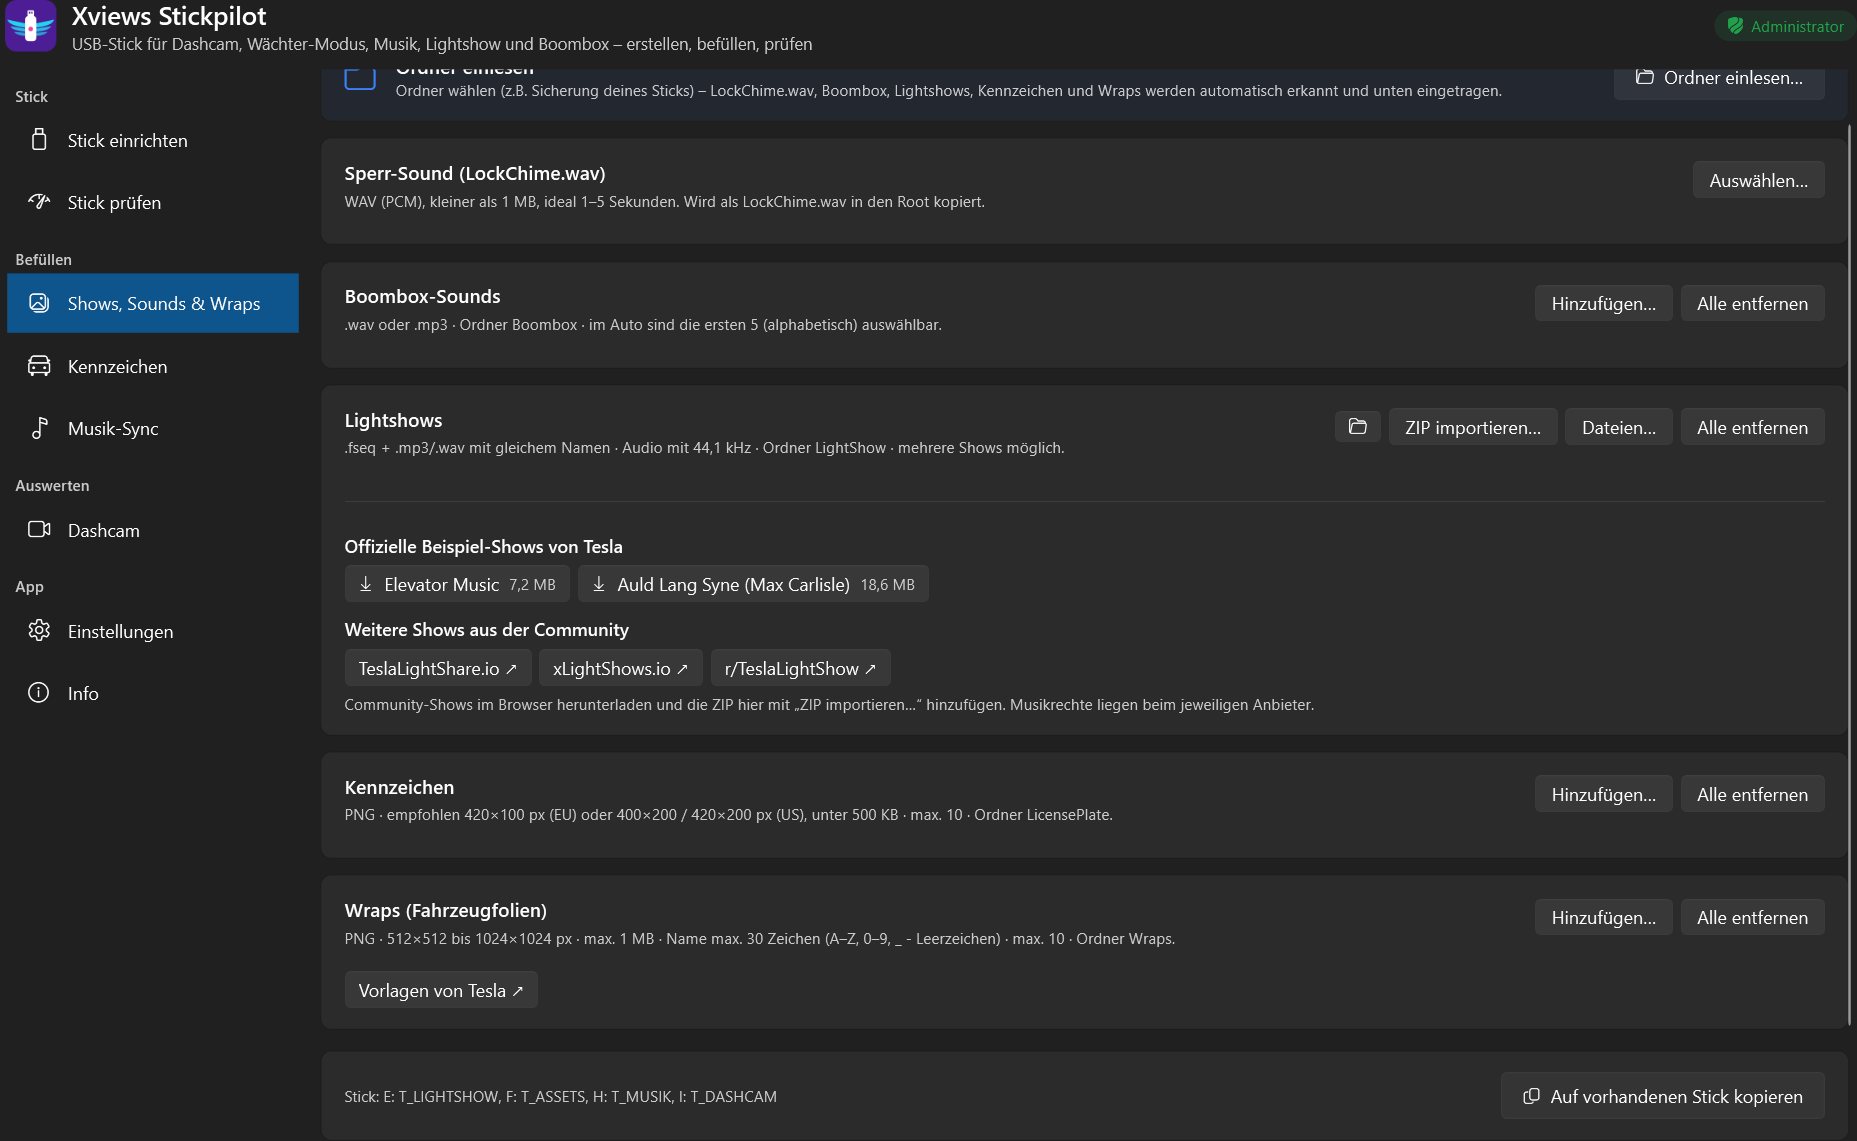
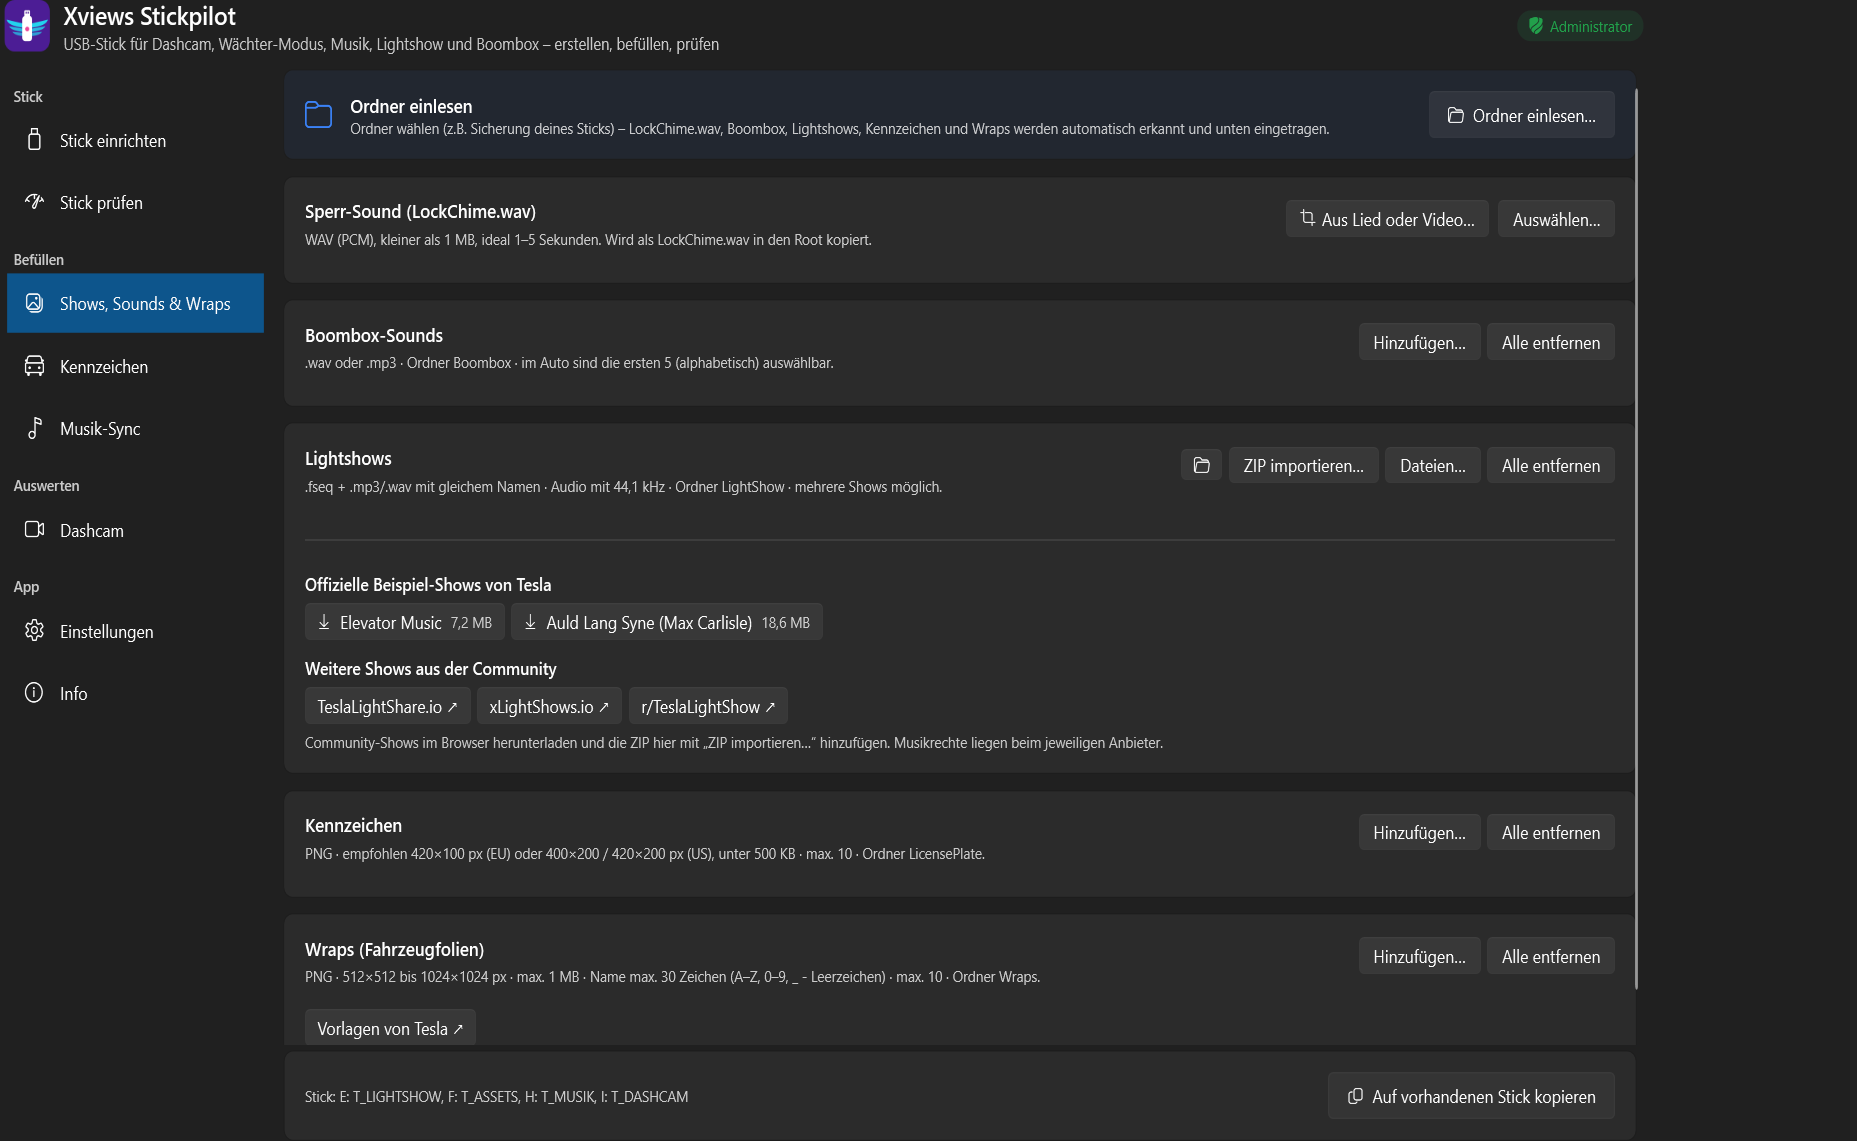
Version 2.7.0: README

diff --git a/README.md b/README.md
@@ -11,11 +11,15 @@
 - **Stick einrichten:** Aufteilung für Dashcam und Wächter-Modus, Musik, Lightshow und Boombox. Die Vorlagen (Standard, Dashcam-Fokus, Viel Musik, Nur Dashcam) passen sich automatisch an die Stickgröße an.
 - **Stick prüfen:** Geschwindigkeitstest. Tesla verlangt für die Dashcam mindestens 4 MB/s dauerhafte Schreibrate.
 - **Shows, Sounds & Wraps:** Lightshows, Boombox-Sounds, Sperr-Sound (LockChime), Wraps und Kennzeichen hinzufügen. Alles wird auf die Tesla-Vorgaben geprüft, Lightshow-Tonspuren werden bei Bedarf auf 44,1 kHz umgewandelt.
+  - **Sperr-Sound-Werkstatt:** Einen Ausschnitt aus einem Lied oder Video wählen, anhören, ein- und ausblenden, Lautstärke angleichen und direkt als LockChime.wav übernehmen.
 - **Kennzeichen-Generator:** Deutschland, Österreich, Schweiz, Niederlande und USA. Deutsche Schilder mit HU-Plakette nach StVZO (Farbe je Jahr), Stempelplakette, Saison-, Kurzzeit- und Ausfuhrkennzeichen, Carbon- oder 3D-Optik.
-  - **Front-Kennzeichen als Wrap:** Tesla zeigt am 3D-Auto vorne kein Kennzeichen. Als Wrap kommt es auf den Stoßfänger (Model 3 ab 2024, Model S ab 2021).
+  - **Front-Kennzeichen als Wrap:** Tesla zeigt am 3D-Auto vorne kein Kennzeichen. Als Wrap kommt es auf den Stoßfänger (Model 3 ab 2024, Model S ab 2021, Model Y ab 2020; beim Model Y freuen wir uns über Rückmeldungen aus dem Auto).
   - **Wappen suchen:** Aus dem Ortskürzel werden Kreis und Bundesland ermittelt. Die Suche nach dem passenden Wappen öffnet sich mit einem Klick.
 - **Musik-Sync:** Überträgt nur neue und geänderte Titel.
 - **Dashcam:** Alle Kameras gleichzeitig, Fahrdaten (km/h, Gang, Blinker, Bremse, Autopilot, GPS), Clips zuschneiden und exportieren. Für die Fahrdaten-Einblendung im Export gibt es fünf Designs: Klassisch, Tesla-Stil, analoger Tacho, Minimal und Sport-HUD.
+  - **Karte mit Fahrstrecke:** Die ganze Fahrt auf einer OpenStreetMap-Karte, nach Tempo eingefärbt. Ein Klick auf die Strecke springt im Video an diese Stelle, Export als GPX-Datei.
+  - **Tempo-Verlauf:** Über der Zeitleiste, mit Bremsphasen. Ein Klick springt an die Stelle.
+- **Updates mit einem Klick:** Die App meldet neue Versionen, lädt sie nach Rückfrage, prüft die Prüfsumme und startet neu. Einstellungen und Vorlagen bleiben erhalten.
 
 ![Kennzeichen](bilder/3-kennzeichen.png)
 
@@ -34,9 +38,7 @@
 
 **Voraussetzungen:** Windows 10 oder 11 (64 Bit).
 
-**Sicherheit:** Die Prüfsummen (SHA-256) jeder Version stehen im Release-Text. Die aktuelle EXE (Version 2.6.0) wurde bei [VirusTotal](https://www.virustotal.com/gui/file/528e1528bf285fcf83743b4f4f92e81110895be943114553e55b87e6b1914a17) geprüft: **0 von 68 Virenscannern melden etwas.**
-
-[![VirusTotal: 0 von 68](bilder/virustotal.png)](https://www.virustotal.com/gui/file/528e1528bf285fcf83743b4f4f92e81110895be943114553e55b87e6b1914a17)
+**Sicherheit:** Die Prüfsummen (SHA-256) jeder Version stehen im Release-Text. Mit `Get-FileHash .\XviewsStickpilot.exe` in PowerShell kannst du sie selbst prüfen.
 
 **Beim ersten Start:**
 - Windows fragt nach **Adminrechten**. Die braucht Windows zum Formatieren des Sticks.
@@ -47,7 +49,10 @@
 
 - Beim Einrichten wird der Stick **gelöscht**, wenn du die vorhandenen Inhalte nicht behältst. Also vorher sichern.
 - Nutzung auf eigene Verantwortung.
-- Das Tool sendet keine Daten. Ins Internet geht es nur, wenn du selbst etwas anstößt, zum Beispiel Beispiel-Lightshows herunterladen oder die Wappen-Suche öffnen.
+- Das Tool sendet keine persönlichen Daten. Ins Internet geht es nur in diesen Fällen:
+  - **Update-Suche:** Die öffentliche Release-Seite auf GitHub wird abgefragt, standardmäßig einmal am Tag. In den Einstellungen wählbar: bei jedem Start, einmal am Tag, einmal pro Woche oder nie.
+  - **Karte:** Beim Öffnen der Karte werden Kartenbilder von OpenStreetMap geladen und zwischengespeichert.
+  - Wenn du selbst etwas anstößt, zum Beispiel Beispiel-Lightshows herunterladen oder die Wappen-Suche öffnen.
 
 ## Über den Namen
 
@@ -78,6 +83,7 @@ Nicht gestattet sind: der Verkauf, das Verändern des Programms, das Zurückentw
 - [Tesla-Vorgaben für Wraps & Lightshows](https://github.com/teslamotors), öffentliche Anleitungen von Tesla
 - HU-Plakette nachgezeichnet nach [StVZO Anlage IX](https://www.gesetze-im-internet.de/stvzo_2012/anlage_ix.html)
 - Kfz-Kürzel und Zulassungsbezirke: Quelle [Kraftfahrt-Bundesamt](https://www.kba.de/DE/Themen/ZentraleRegister/ZFZR/zfzr_node.html)
+- Karte: [© OpenStreetMap-Mitwirkende](https://www.openstreetmap.org/copyright)
 - Kreise und Bundesländer: Quelle [Statistisches Bundesamt (Destatis)](https://www.destatis.de/DE/Themen/Laender-Regionen/Regionales/Gemeindeverzeichnis/Administrativ/04-kreise.html), [Datenlizenz Deutschland, Namensnennung 2.0](https://www.govdata.de/dl-de/by-2-0)
 - [CommunityToolkit.Mvvm](https://github.com/CommunityToolkit/dotnet), [NAudio](https://github.com/naudio/NAudio), [.NET / WPF](https://github.com/dotnet/wpf), jeweils MIT-Lizenz
 
